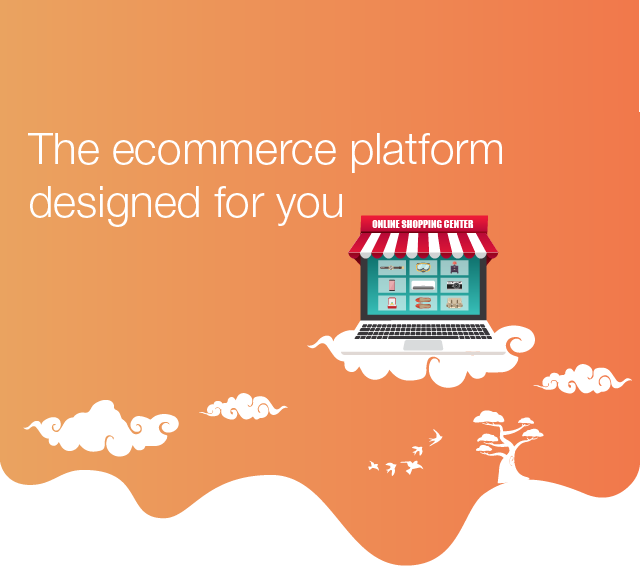
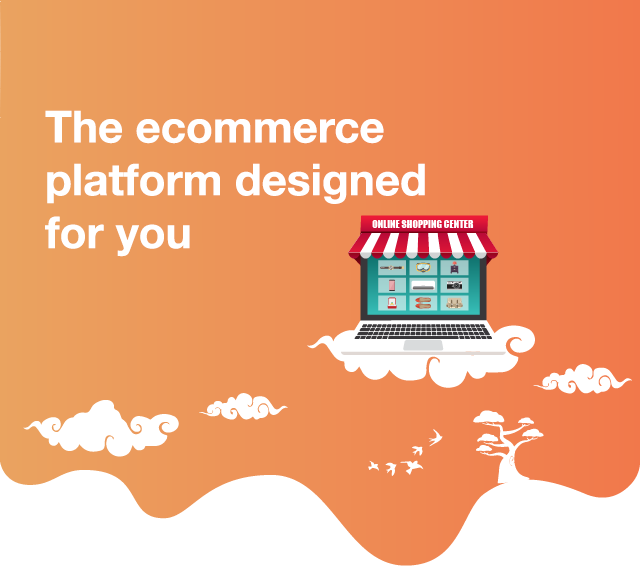
Header Change

Changed region(s): [[0.0312, 0.1802, 0.7812, 0.4505]]

diff --git a/css/main.css b/css/main.css
@@ -76,22 +76,23 @@ body {}
     position: absolute;
     top: 20%;
     left: 4%;
-    width: 40%;
+    width: 50%;
     height: 32%;
     font-family: -apple-system, BlinkMacSystemFont, 'Segoe UI', Roboto, Oxygen, Ubuntu, Cantarell, 'Open Sans', 'Helvetica Neue', sans-serif;
-    font-weight: 400;
-    font-size: 230%;
+    font-weight: bold;
+    font-size: 3.5vw;
 }
 
 .brand1 p {
     color: #fff;
     position: absolute;
-    top: 41%;
+    top: 43%;
     left: 4%;
-    width: 35%;
+    width: 45%;
     font-family: -apple-system, BlinkMacSystemFont, 'Segoe UI', Roboto, Oxygen, Ubuntu, Cantarell, 'Open Sans', 'Helvetica Neue', sans-serif;
     font-weight: 500;
     text-align: justify;
+    font-size: 1.5vw;
 }
 
 .brand1 button {
